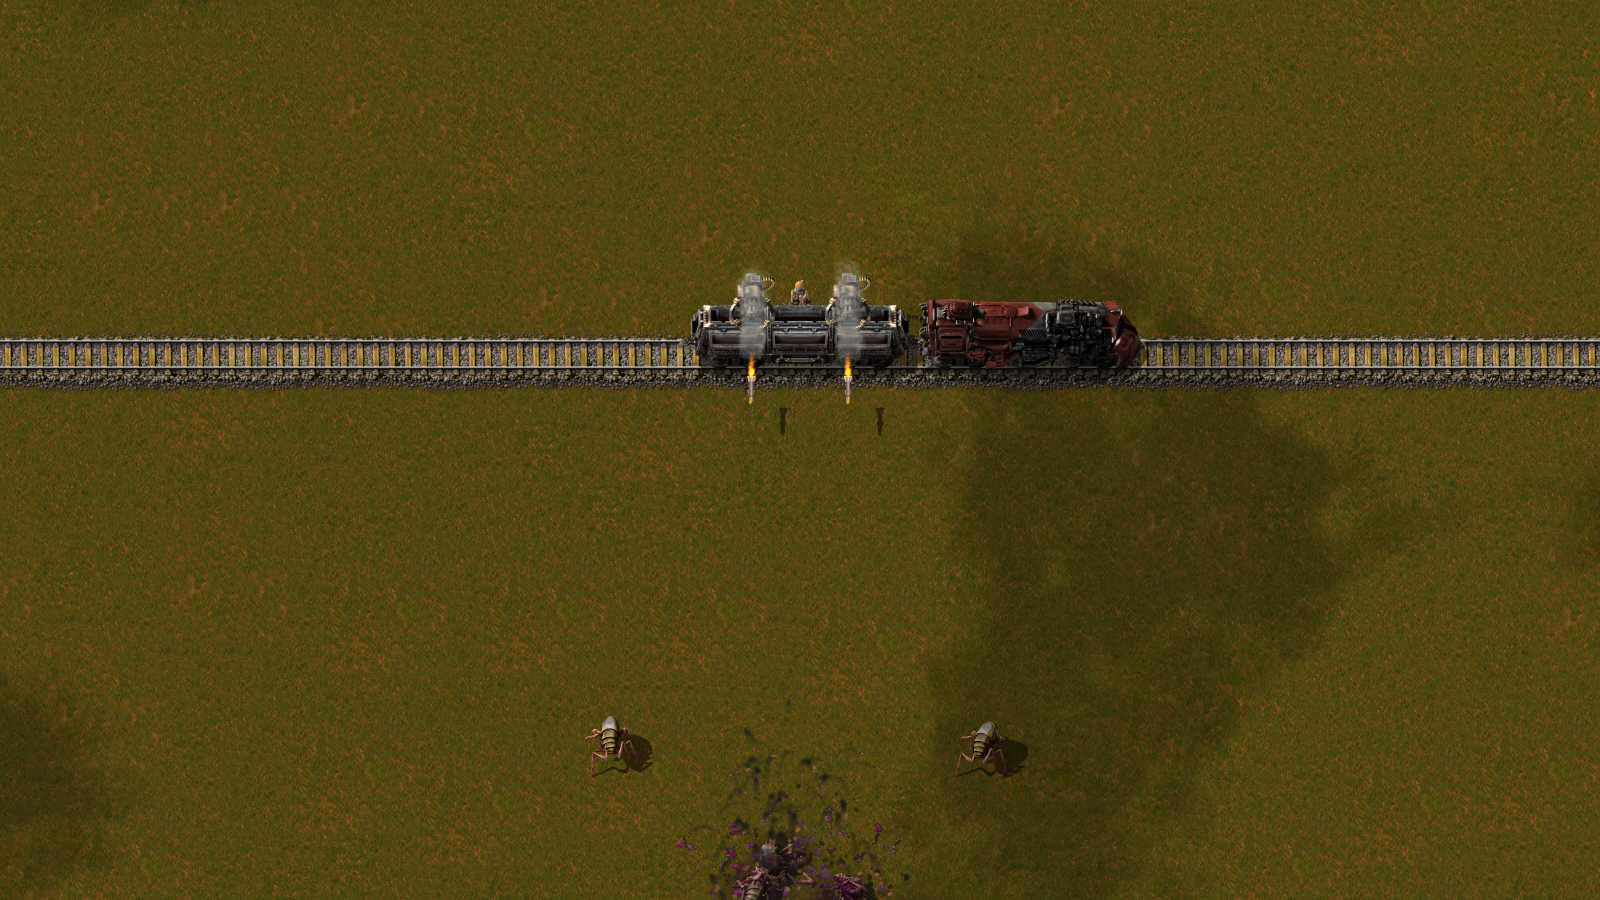
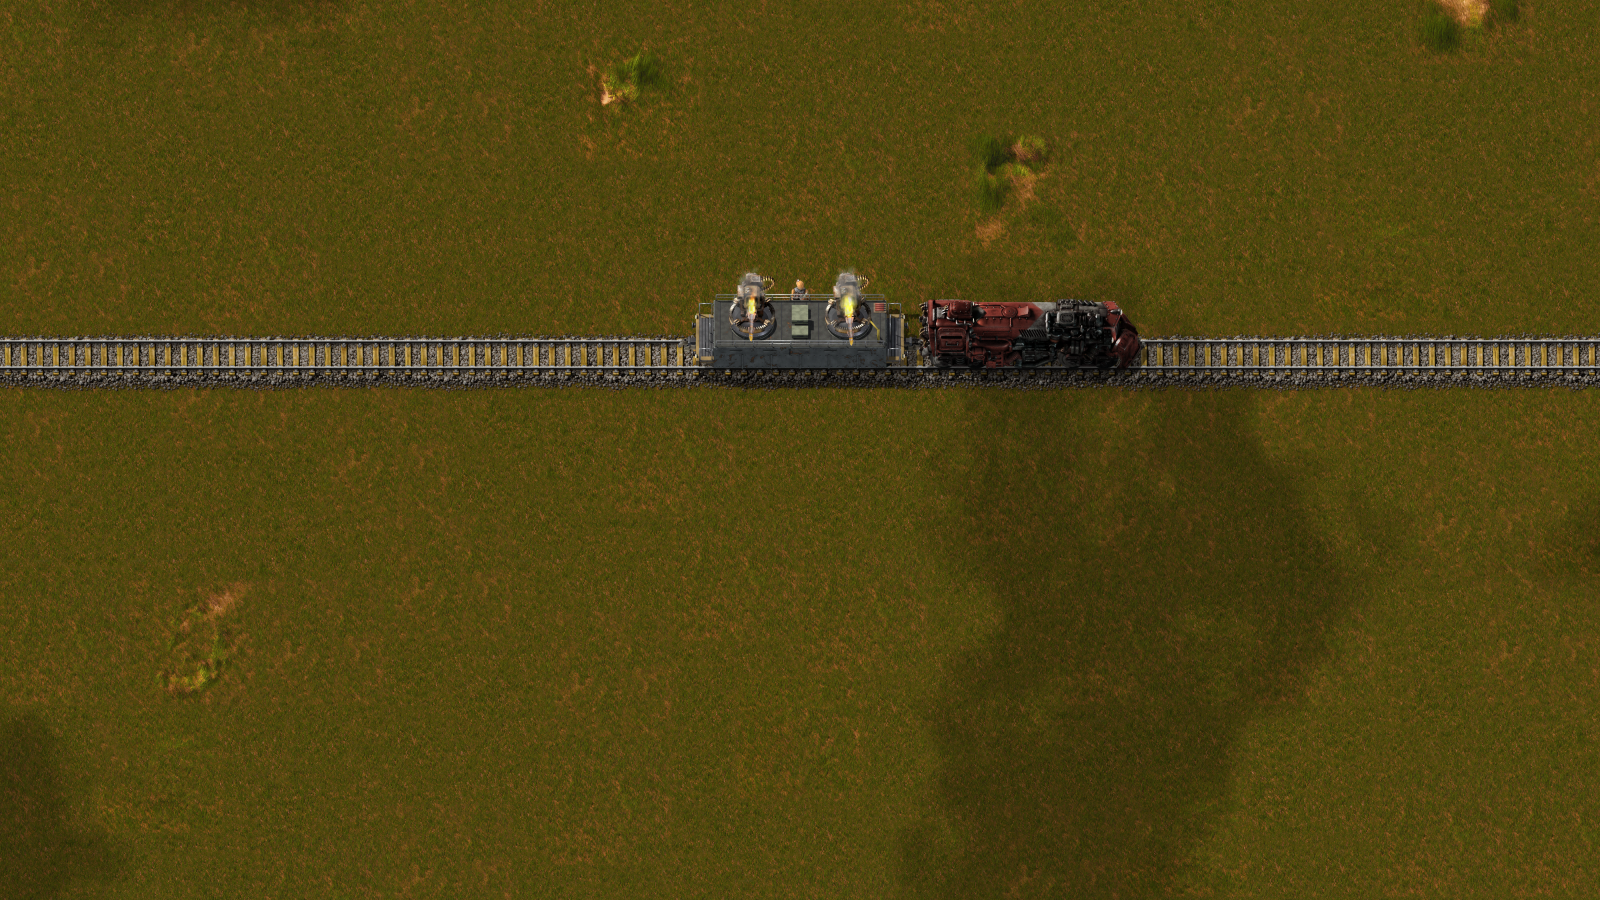
Armoured wagon art, release 0.2.0
Rendered on the desktop with the dark deck material; portal shots refreshed.

Changed region(s): [[0.0, 0.0, 1.0, 1.0], [0.625, 0.4356, 1.0, 1.0], [0.6562, 0.7467, 0.7188, 0.7778]]

diff --git a/portal/description.md b/portal/description.md
@@ -1,7 +1,5 @@
 A cargo wagon with two rocket launchers on its roof. They fire like rocket turrets, also while the train is moving.
 
-**Preview release:** the wagon still uses the vanilla look. Its own armoured art is on the way.
-
 ![Rocket wagon in action](https://raw.githubusercontent.com/vertexvaar/factorio-rocket-turret-wagon/main/previews/portal/1-fighting.png)
 
 ## How it works
